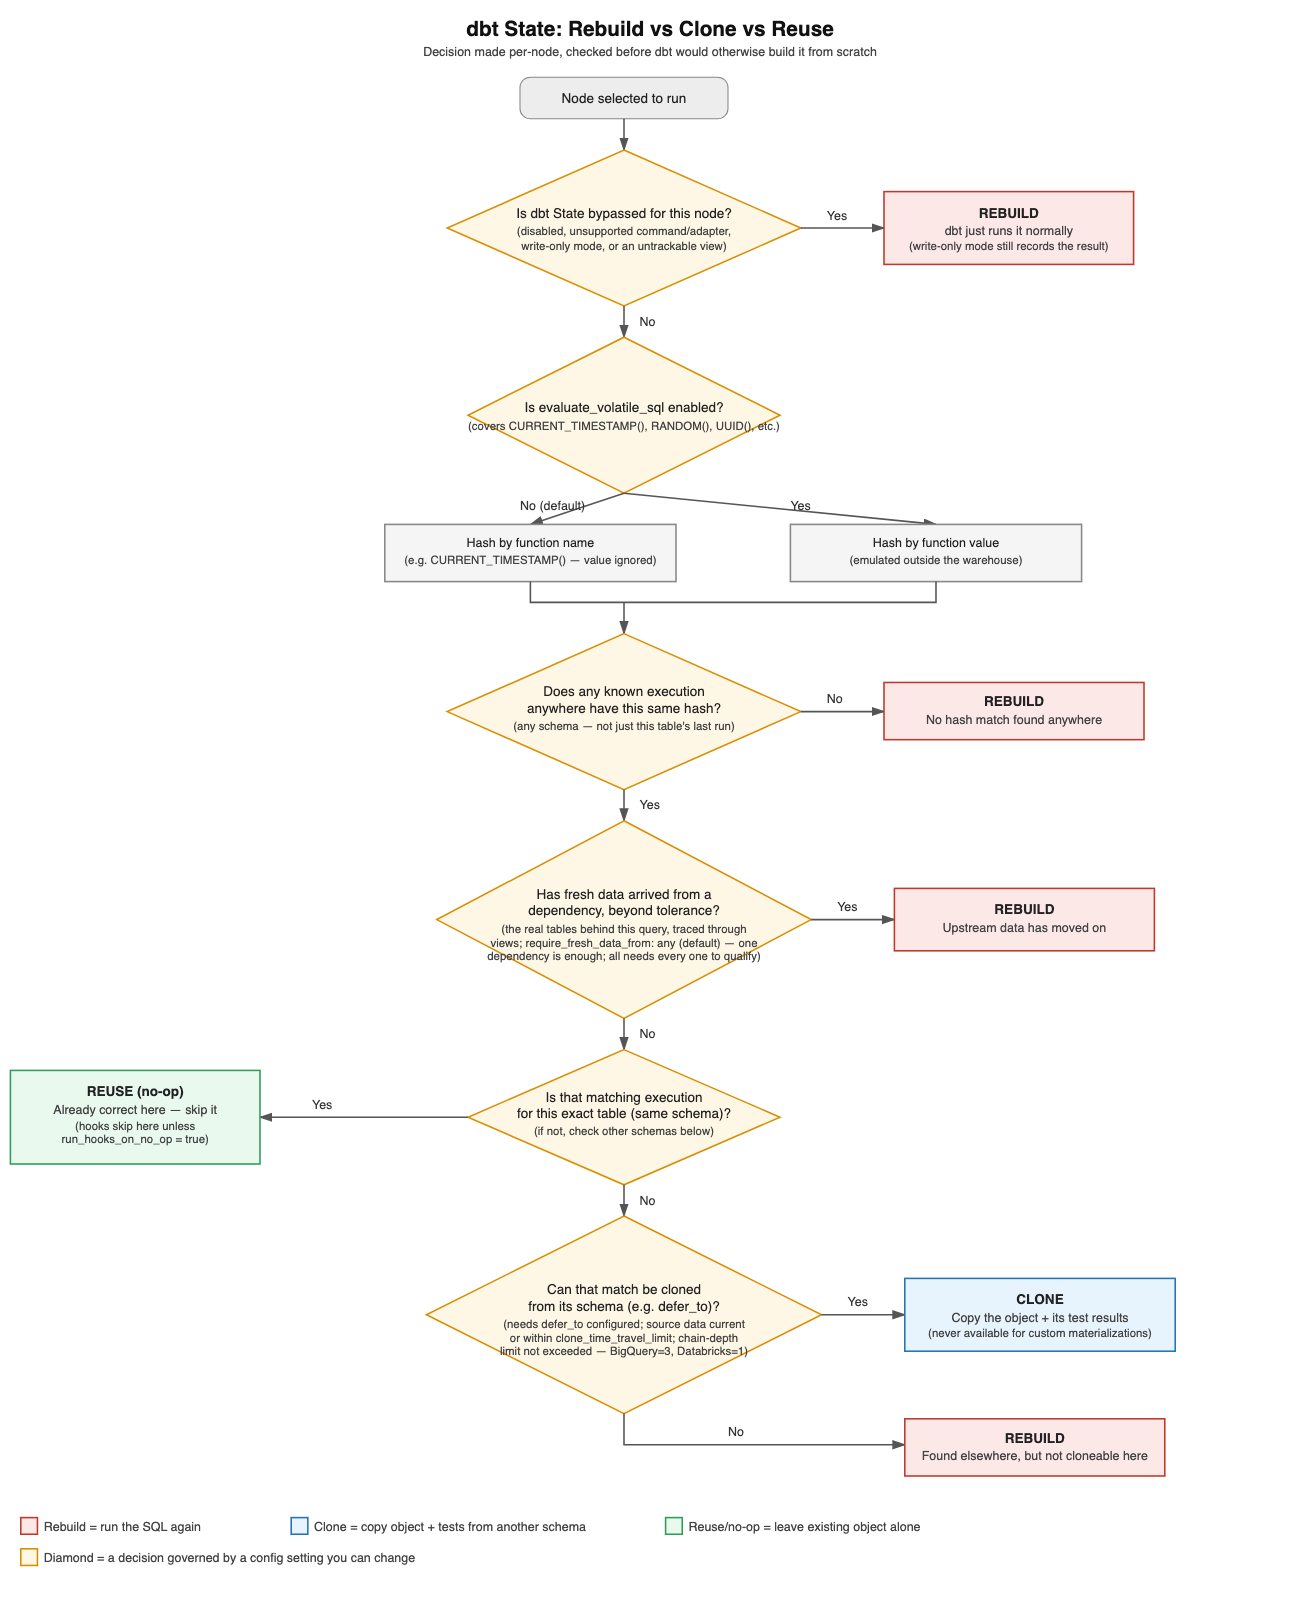
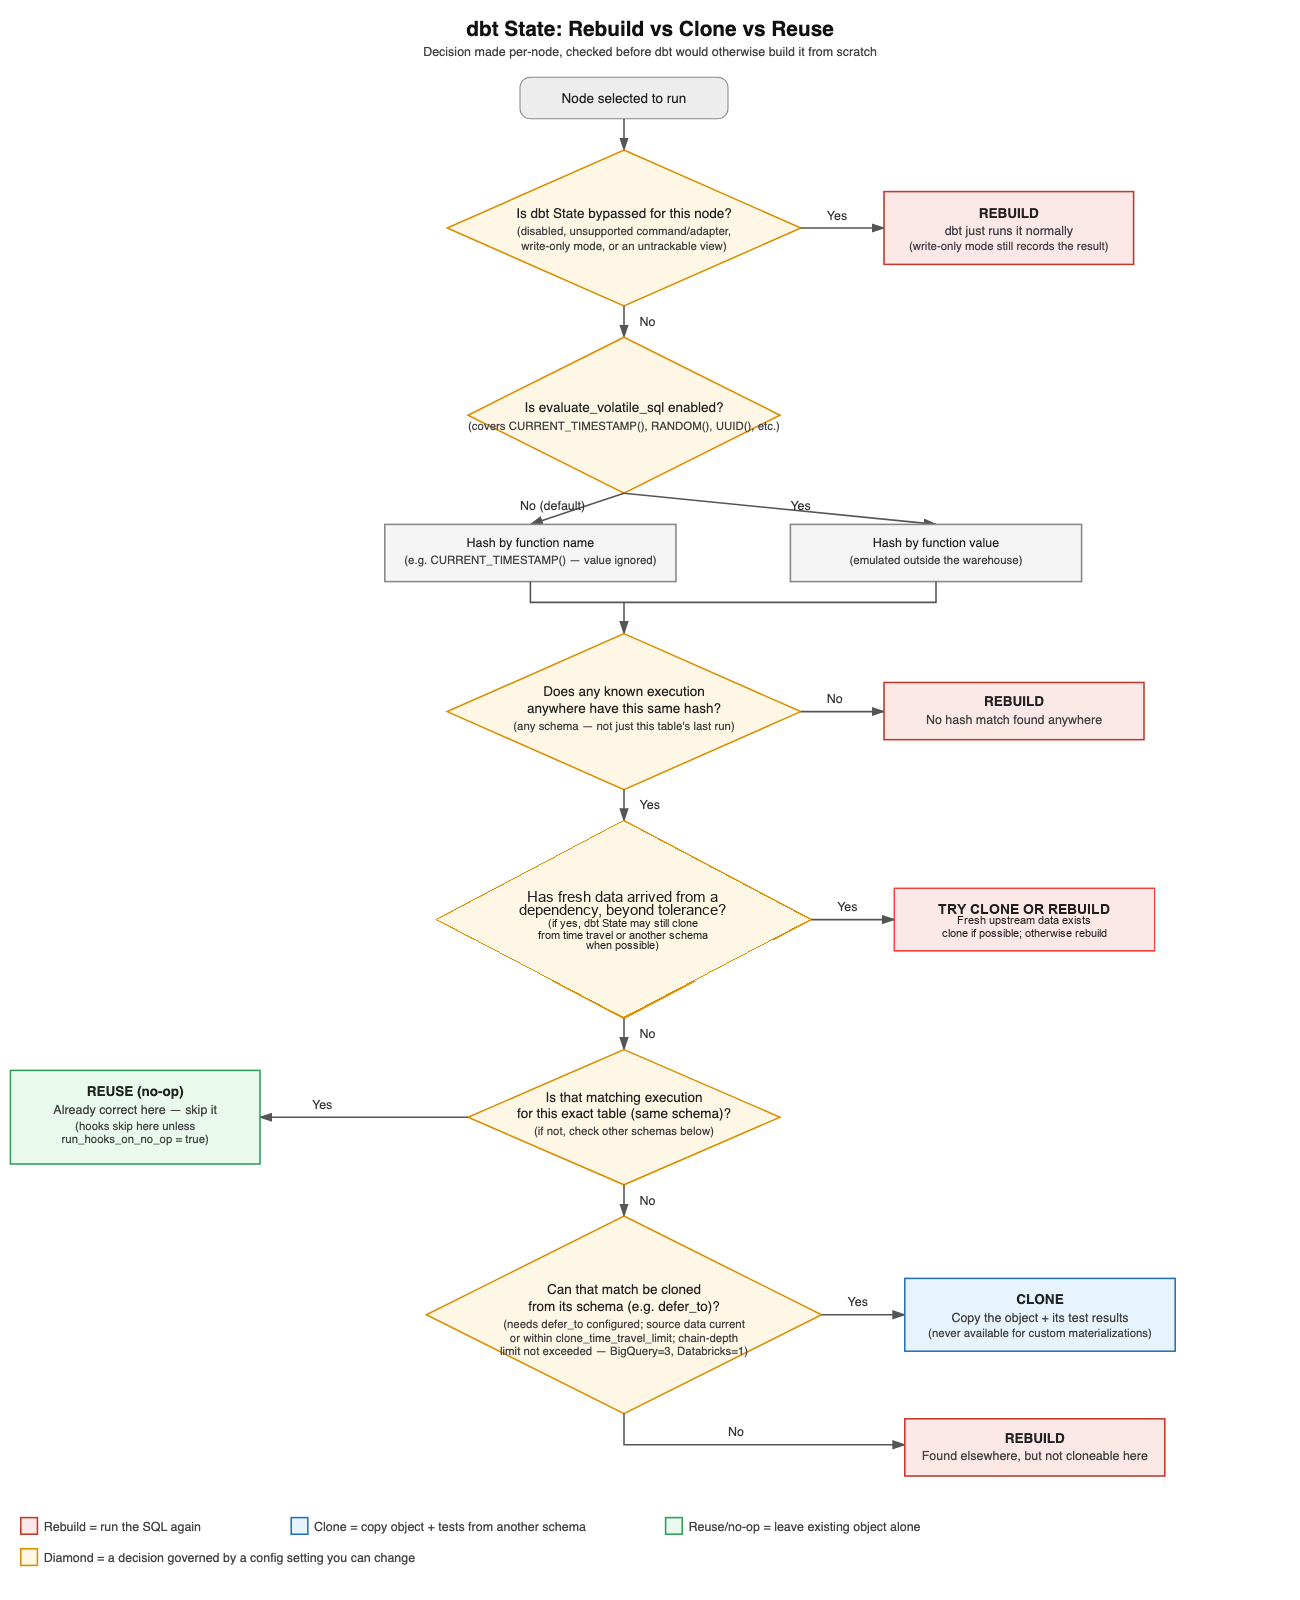
clean up a little

Changed region(s): [[0.3692, 0.5312, 0.5846, 0.625], [0.7077, 0.5625, 0.8615, 0.5938]]

diff --git a/website/blog/2026-06-17-how-dbt-state-works.md b/website/blog/2026-06-17-how-dbt-state-works.md
@@ -76,7 +76,7 @@ dbt State will cast a wide net when trying to reuse objects. If Toby checks out 
 
 Let's go a bit deeper into how dbt State decides what to do with each node in the DAG. This decision tree shows how dbt State chooses whether to rebuild a node, clone it from another schema, or reuse the object already in place.
 
-<Lightbox src="/img/blog/2026-06-17-how-dbt-state-works/run-cache-decision-tree.png" width="100%" alt="Decision tree showing how dbt State chooses whether to rebuild, clone, or reuse a node based on state bypasses, volatile SQL handling, execution hashes, freshness, schema matches, and clone eligibility" title="dbt State decision tree for rebuild, clone, and reuse" />
+<Lightbox src="/img/blog/2026-06-17-how-dbt-state-works/run-cache-decision-tree.png" width="100%" alt="Decision tree showing how dbt State chooses whether to rebuild, clone, or reuse a node based on state bypasses, volatile SQL handling, execution hashes, freshness, schema matches, clone eligibility, and whether fresh upstream data can still be cloned from time travel or another schema" title="dbt State decision tree for rebuild, clone, and reuse" />
 
 The three big questions are:
 
@@ -88,7 +88,7 @@ The three big questions are:
 
 dbt’s normal `state:modified` selector hashes the contents of a file. dbt State is better because it [parses the query into a syntax tree](/blog/sql-comprehension-technologies#level-1-parsing), and then calculates a hash of the query. This means it won’t rebuild on a syntactically equivalent change, like removing whitespace, adding a comment, or changing a table’s alias.
 
-<Lightbox src="/img/blog/2026-06-17-how-dbt-state-works/query-normalisation-hash-comparison.png" width="100%" alt="Two semantically equivalent SQL files produce different file hashes without dbt State, but normalizing each into a syntax tree yields the same comparison hash with dbt State" title="dbt State considers queries to be equivalent despite cosmetic differences" />
+<Lightbox src="/img/blog/2026-06-17-how-dbt-state-works/query-normalisation-hash-comparison.png" width="90%" alt="Two semantically equivalent SQL files produce different file hashes without dbt State, but normalizing each into a syntax tree yields the same comparison hash with dbt State" title="dbt State considers queries to be equivalent despite cosmetic differences" />
 
 The purpose of this normalization is to ensure that your model only gets rebuilt when its logic or data changes. One wrinkle in this is volatile SQL functions, like `current_timestamp()` or `random()`. Are they logic, like every other piece of code? Or are they themselves data, and when they change the model is invalidated and should be rebuilt?
 
